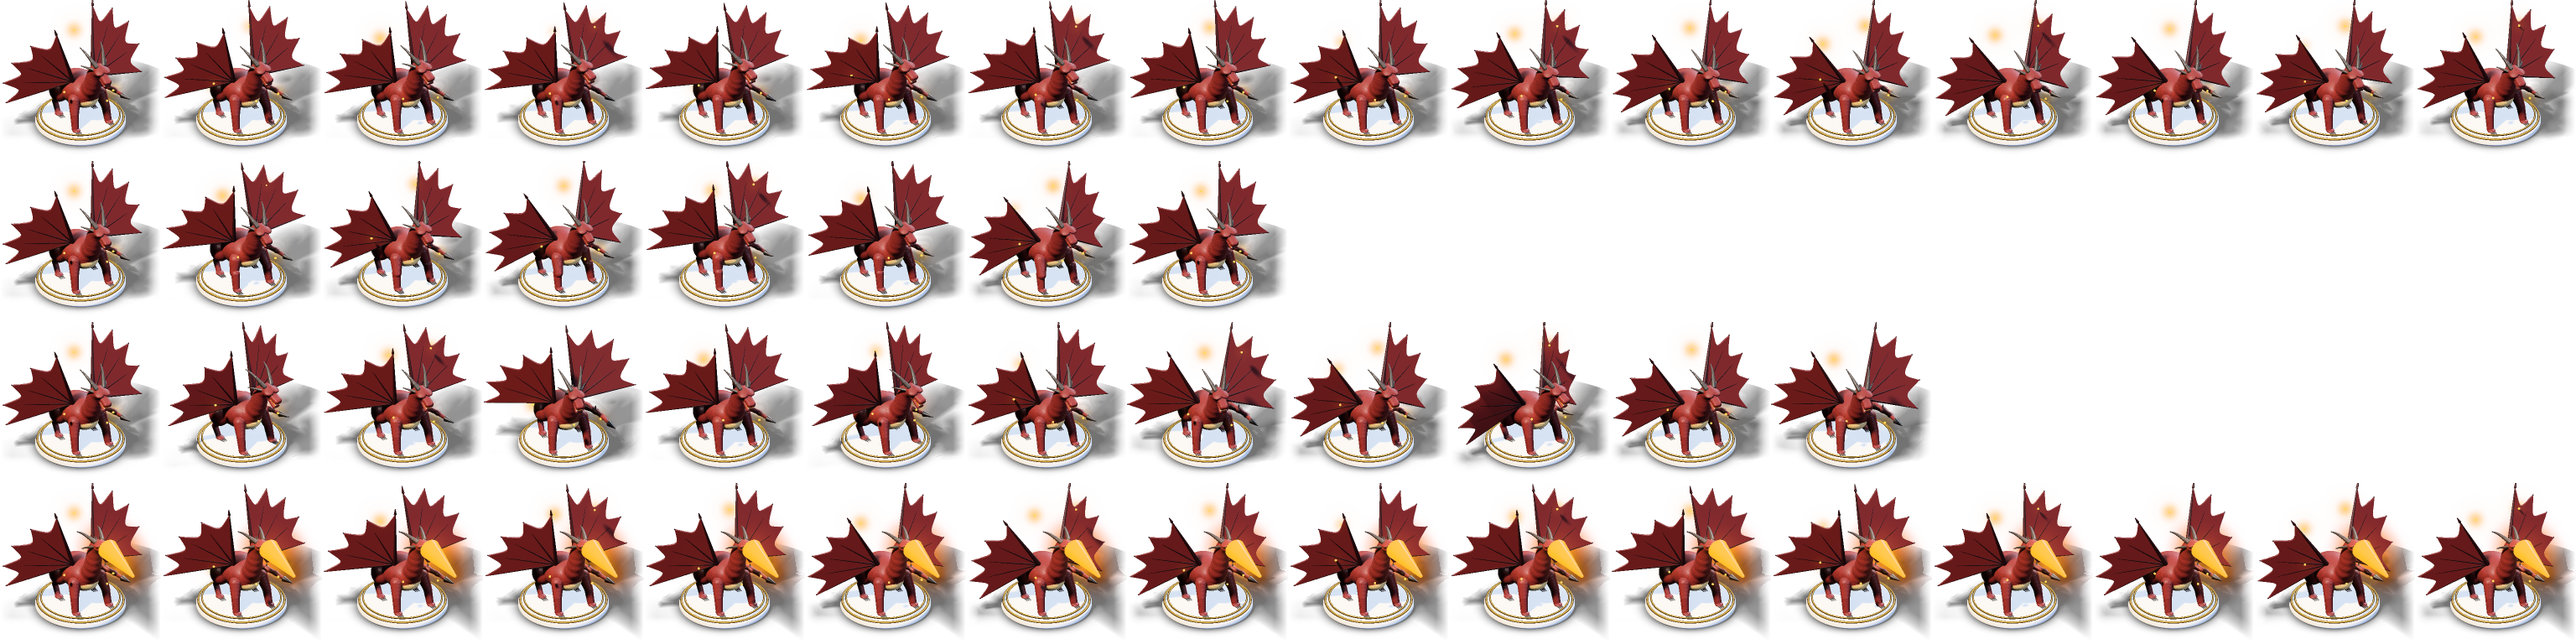
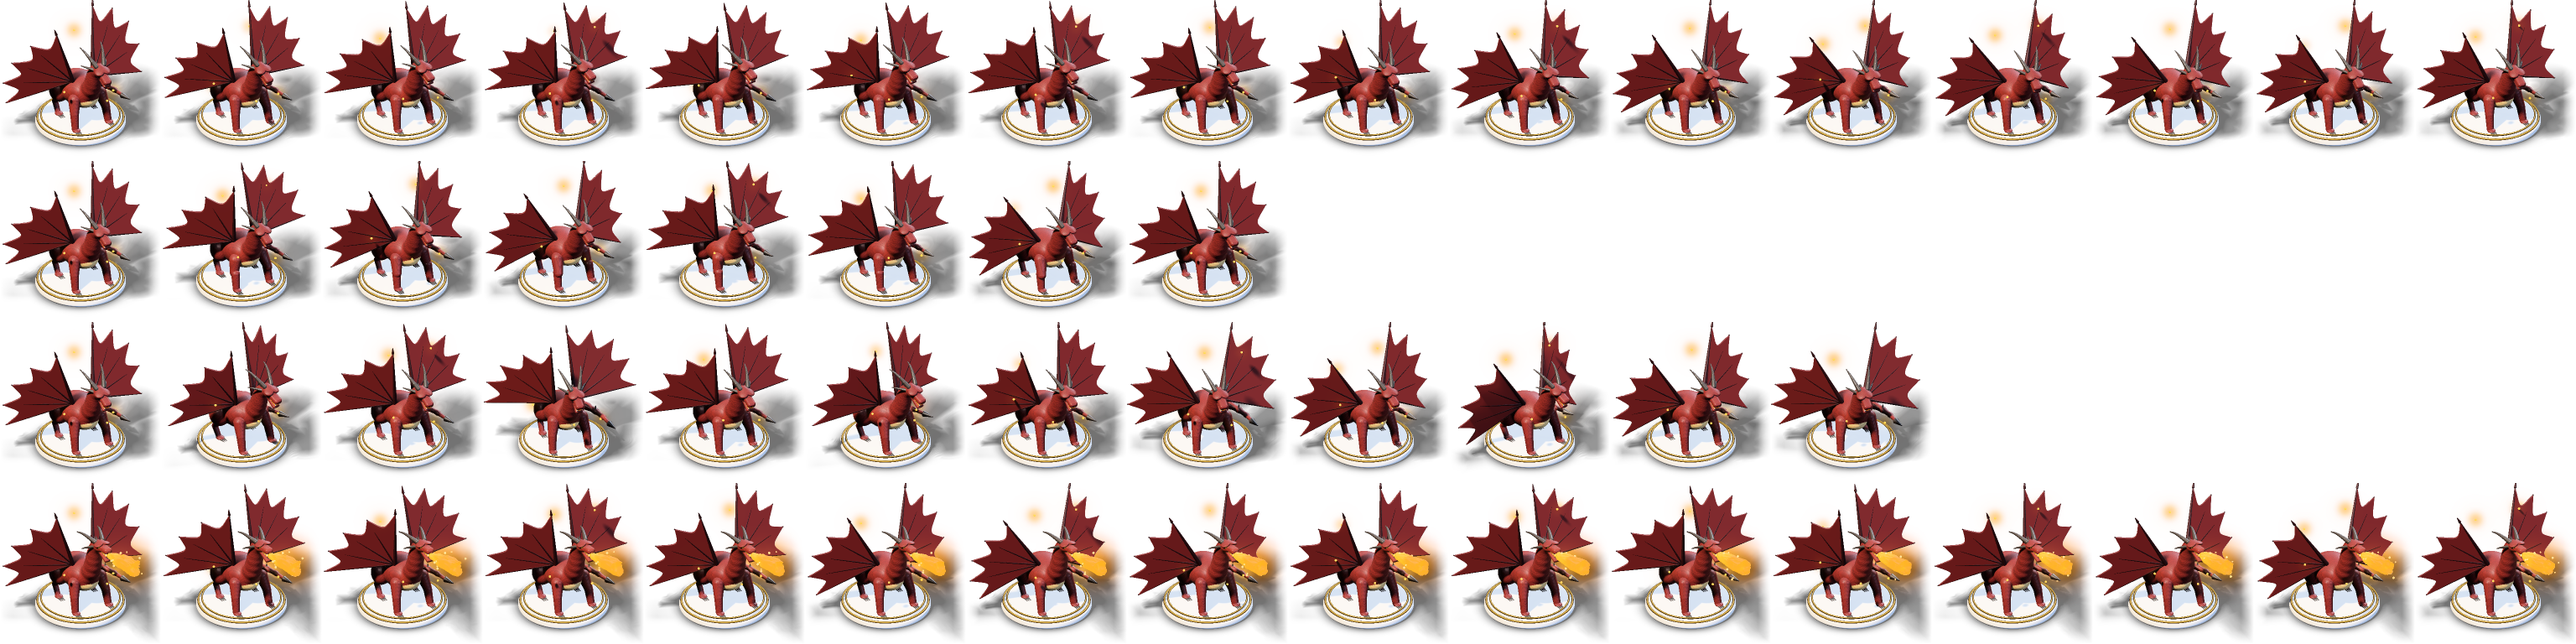
Légendes: the ancient dragon breathes a real jet of fire when it wins (widening from the jaws, tongues streaming in a turbulence periodic in the loop, a white-yellow core, orange, a dark red edge; embers) instead of a yellow cone

diff --git a/app/tools/sprites/epic.py b/app/tools/sprites/epic.py
@@ -20,7 +20,7 @@ The human is never part of a set: always the user's own figurine.
 import math
 import torch
 from render import Scene, Mat, T, RX, RY, RZ, srgb, sd_sphere, sd_ellipsoid, sd_box, sd_capsule, sd_cylinder, \
-    sd_torus, sd_cone, sd_plane_cut, fbm
+    sd_torus, sd_cone, sd_plane_cut, fbm, vec
 from models import base, BASE_TOP, TAU, wave, glow, gold
 from legends import leather, cloth, iron, silver, wood, skin, base_pose, held
 from heroic import adult, chain, bezier, membrane_wing, scales, HEAD
@@ -534,6 +534,37 @@ def archmage(anim, t, side):
 
 
 # ─── 10 · the ancient dragon ────────────────────────────────────────────────
+def fire_breath(L, r0, r1, t):
+    """A jet of fire along +z from the origin, L long, widening from r0 to r1: its
+    edge billowing in a turbulence that streams forward (periodic in t: the loop
+    has no jump), a white-yellow core, orange, a dark red torn edge."""
+    D = 0.35                                           # how far the turbulence streams in one loop
+    sh = vec(0, 0, 1)                                  # (built once: no tensor made inside the SDF)
+    st = vec(16, 16, 5)                                # the turbulence stretched along the jet: tongues
+
+    def turb(p):
+        a = fbm(p * st - sh * (t * D * 5), 3)
+        b = fbm(p * st - sh * ((t - 1) * D * 5) + 7.3, 3)
+        return a * (1 - t) + b * t
+
+    def f(p):
+        u = (p[:, 2] / L).clamp(0, 1)
+        r = r0 + (r1 - r0) * u ** 0.7
+        rad = torch.sqrt(p[:, 0] ** 2 + p[:, 1] ** 2)
+        d = rad - r * (0.3 + 1.3 * turb(p)) * (1.0 - 0.35 * u)
+        d = torch.maximum(d, torch.maximum(-p[:, 2], p[:, 2] - L * (0.85 + 0.25 * turb(p * 0.7))))
+        return d * 0.6
+
+    def pat(pl, pw, n):
+        u = (pl[:, 2] / L).clamp(0, 1)
+        rad = torch.sqrt(pl[:, 0] ** 2 + pl[:, 1] ** 2) / (r0 + (r1 - r0) * u ** 0.7)
+        heat = (1.05 - 1.0 * u - 0.55 * rad + 0.5 * (turb(pl) - 0.5)).clamp(0, 1)
+        c = torch.where((heat > 0.6)[:, None], torch.lerp(srgb("#ff9a20"), srgb("#fff6c8"), ((heat - 0.6) / 0.4)[:, None]),
+                        torch.lerp(srgb("#7a1206"), srgb("#ff9a20"), (heat / 0.6)[:, None]))
+        return {"albedo": c, "emissive": c * (0.5 + 2.2 * heat * heat)[:, None]}
+    return f, Mat("#ff9a20", rough=0.9, emissive="#ff9a20", emit=1.0, pattern=pat)
+
+
 def dragon(anim, t, side):
     sc = Scene()
     base(sc, side)
@@ -586,10 +617,16 @@ def dragon(anim, t, side):
         chain(sc, hp2, [0.014, 0.01, 0.006, 0.002], horn, hx * T(0.06 * sgn, 0.0, -0.03), blend=0.003)
         for k in range(3):
             sc.add(sd_cone(0.014, 0.005, 0.001, 0.001), Mat("#f2ead8", rough=0.4), hx * T(0.03 * sgn, -0.04, 0.12 + 0.03 * k) * RX(math.pi))
-    if anim == "win":    # the breath
-        for k in range(3):
-            sc.add(sd_cone(0.18 + 0.06 * k, 0.05 + 0.03 * k, 0.012, 0.01), glow("#ff7a1a" if k else "#ffe08a", 10.0 - 2 * k),
-                   hx * T(0, -0.05, 0.3 + 0.08 * k) * RX(math.pi / 2 + 0.25))
+    if anim == "win":    # the breath: a jet of fire out of the jaws
+        f, m = fire_breath(0.62, 0.018, 0.12, t)
+        mouth = hx * T(0, -0.045, 0.17) * RX(-0.05)
+        sc.add(f, m, mouth)
+        ember = glow("#ffb04a", 8.0)
+        for k in range(10):
+            u = (k * 0.37 + t) % 1
+            a = TAU * ((k * 0.61) % 1)
+            rr = 0.03 + 0.14 * u
+            sc.add(sd_sphere(0.006 + 0.004 * (k % 2)), ember, mouth * T(rr * math.cos(a), rr * math.sin(a), 0.06 + 0.5 * u))
     # the tail, curling around the base, spikes on top
     tail = bezier((0, 0.32, -0.28), (0.05, 0.2, -0.55), (0.45, 0.12, -0.45), (0.5, 0.13, 0.05 + 0.04 * math.sin(TAU * t)), 10)
     chain(sc, tail, [0.075 * (1 - 0.09 * i) for i in range(10)], hide, root, blend=0.03)
